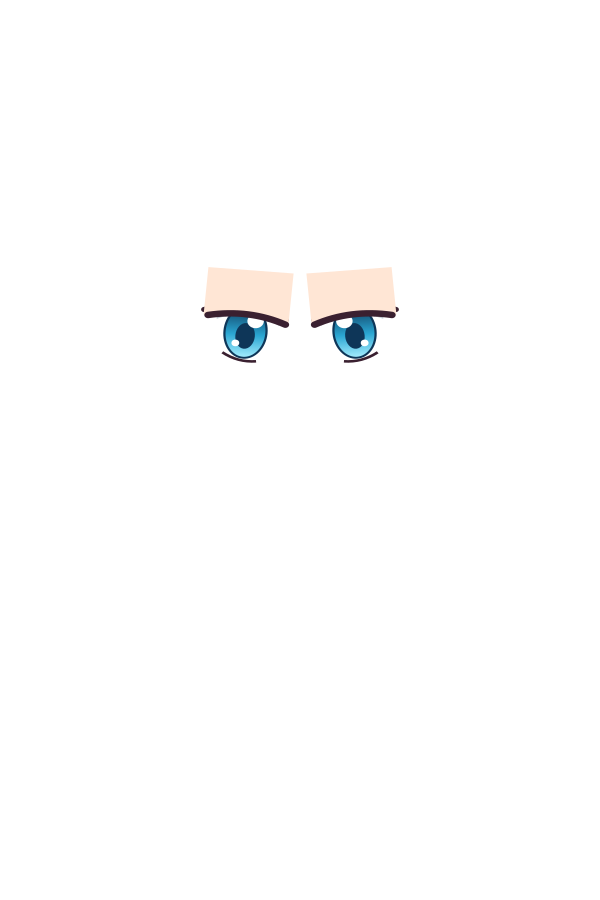
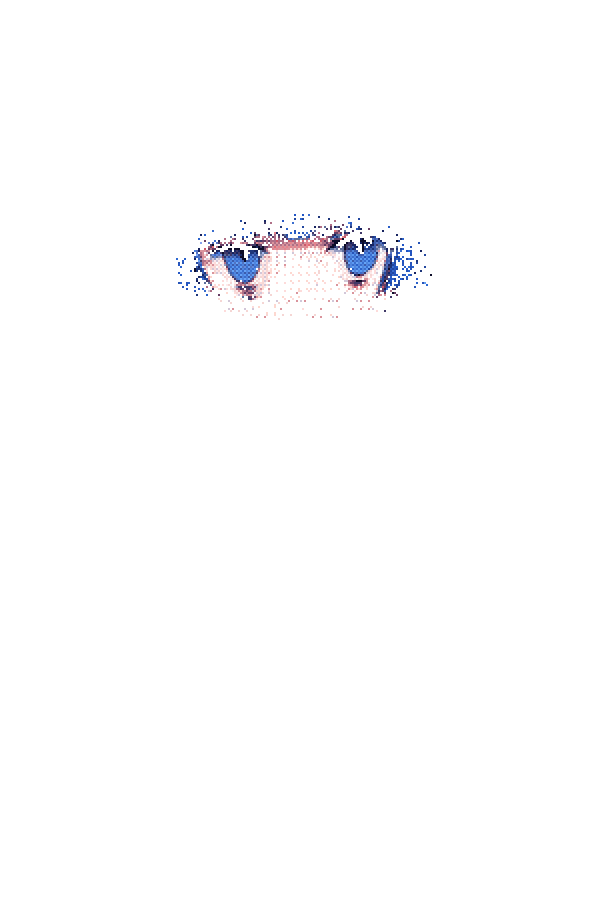
feat(art): 冬華のパーツ差分と、ミサキ・冬華の後ろ姿を ComfyUI で作成
- tools/misaki_parts.py: --char touka（キャラ別の部位座標・プロンプト・基準画像）。美咲の出力は変更なし
- images/chars/touka/: 19 レイヤーを新画風に差し替え（ファイル名・宣言は変更なし）
- tools/char_back.py: 後ろ姿（OP CUT 10/12）の生成・ラスター化。misaki_back / touka_back を差し替え
- tools/op_assets.py: 冬華の OP 表情を新パーツから合成。旧 SVG の後ろ姿生成は廃止
- docs/demo-design.md §14.8、image-generation.md を更新

Changed region(s): [[0.3, 0.2489, 0.69, 0.4044]]

diff --git a/tools/misaki_parts.py b/tools/misaki_parts.py
@@ -54,6 +54,70 @@ REGIONS = {  # 楕円 (l, t, r, b), feather
 LASH_ZONES = [(190, 465, 268, 605), (262, 478, 335, 516), (450, 435, 645, 492), (592, 435, 650, 575)]
 CHEEKS = [(205, 590, 290, 640), (560, 575, 645, 625)]  # 頬染めの楕円
 
+# ── キャラ別設定（--char で切り替え。既定は misaki）────────────────────
+# 冬華は参考画像がないので、txt2img + 弱い IP-Adapter（美咲の画風・制服）で作った基準バストから始める。
+TOUKA_STYLE = ("retro artstyle, 1990s (style), official art, game cg, cel shading, soft shading, "
+               "thin dark lineart, delicate lineart, soft colors")
+TOUKA_CHAR = ("1girl, solo, (very long hair:1.3), straight hair, (blue hair:1.5), (royal blue hair:1.3), "
+              "(indigo blue hair:1.1), hime cut, blunt bangs, sidelocks, white hairband, (blue eyes:1.2), "
+              "large eyes, calm, serious, cool, tsurime, serafuku, white shirt, short sleeves, "
+              "(navy blue sailor collar:1.3), white stripes, red bowtie")
+TOUKA_FRAME = ("upper body, portrait, straight-on, front-facing, looking at viewer, symmetrical, "
+               "white background, simple background")
+TOUKA_NEG = ("lowres, bad anatomy, bad hands, text, error, cropped, worst quality, low quality, jpeg artifacts, "
+             "signature, watermark, blurry, 3d, photorealistic, chromatic aberration, glasses, eyewear, "
+             "black hair, dark hair, cyan hair, light blue hair, purple hair, lavender hair, violet hair, "
+             "pink hair, blonde hair, short hair, twintails, ponytail, high contrast, heavy shadow, thick outlines, "
+             "light blue collar, multiple girls, speech bubble, nsfw, sparkle eyes, star pupils")
+
+CONFIGS = {
+    "misaki": {},
+    "touka": dict(
+        work="parts_touka", game="touka",
+        base_src="output/touka/base.png",          # 基準バスト（tools/misaki_parts の docs 参照）
+        lens=None, pale_fringe=False,
+        positive=lambda tags: ", ".join([G.QUALITY, TOUKA_STYLE, TOUKA_CHAR, TOUKA_FRAME, tags]),
+        negative=TOUKA_NEG, cheek_rgb=(236, 120, 140),
+        regions={"brows": ((310, 262, 592, 312), 6), "eyes": ((305, 298, 600, 398), 10),
+                 "mouth": ((408, 412, 502, 472), 8)},
+        cheeks=[(325, 385, 400, 418), (505, 385, 580, 415)],
+        lash_zones=[], sheet_crop=(60, 100, 540, 460),
+        # 冬華は前髪が眉に被るので、眉は弱め・目の pout は上まぶたを落とし過ぎない（帯状の破綻を防ぐ）
+        tags={("eyes", "pout"): "(jitome:1.2), (glaring:1.2), annoyed, sharp eyes",
+              ("brows", "up"): "(raised eyebrows:1.2), surprised"},
+        denoise={("brows", "up"): 0.75, ("eyes", "pout"): 0.75},
+    ),
+}
+CHAR_NAME = "misaki"
+POSITIVE = None      # tags → Positive 全文（None なら comfy_gen の美咲用ブロック）
+NEGATIVE = None
+BASE_SRC = None      # 設定時はこの画像を基準として使い、ComfyUI で基準を作らない
+PALE_FRINGE = True   # 参考シートの印刷オフセット（薄青いフチ）を白扱いにする（美咲のみ）
+CHEEK_RGB = (236, 110, 130)
+SHEET_CROP = (60, 260, 540, 620)   # 確認シートで切り出す顔まわり（600x900 キャンバス上）
+
+
+def use(char):
+    """キャラ設定をモジュール定数へ反映する。"""
+    global WORK, GAME_DIR, CHAR_NAME, POSITIVE, NEGATIVE, BASE_SRC, PALE_FRINGE, CHEEK_RGB
+    global LENS_L, LENS_R, REGIONS, CHEEKS, LASH_ZONES, SHEET_CROP
+    c = CONFIGS[char]
+    CHAR_NAME = char
+    if not c:
+        return
+    WORK = os.path.join(ROOT, "output", c["work"])
+    GAME_DIR = os.path.join(ROOT, "hoshimizaka", "game", "images", "chars", c["game"])
+    BASE_SRC = os.path.join(ROOT, c["base_src"])
+    POSITIVE, NEGATIVE, PALE_FRINGE, CHEEK_RGB = c["positive"], c["negative"], c["pale_fringe"], c["cheek_rgb"]
+    if c["lens"] is None:
+        LENS_L = LENS_R = None
+    REGIONS, CHEEKS, LASH_ZONES, SHEET_CROP = c["regions"], c["cheeks"], c["lash_zones"], c["sheet_crop"]
+    for (part, kind), t in c.get("tags", {}).items():
+        TAGS[part][kind] = t
+    for (part, kind), d in c.get("denoise", {}).items():
+        DENOISE_KIND[(part, kind)] = d
+
+
 # 各差分の inpaint 用タグ（表情タグのみ。キャラ・画風は comfy_gen と共通）
 TAGS = {
     "eyes": {
@@ -82,6 +146,7 @@ TAGS = {
 # 部位別に Negative へ足すタグ（片目だけ閉じるウインクを防ぐ）
 NEG_EXTRA = {"eyes": "(wink:1.4), (one eye closed:1.4)"}
 DENOISE = {"eyes": 0.85, "mouth": 0.85, "brows": 0.9}
+DENOISE_KIND = {}   # (部位, 種類) ごとの上書き
 KINDS = {"eyes": EYE_KINDS, "mouth": MOUTH_KINDS, "brows": BROW_KINDS}
 
 # 表情プリセット（hoshimizaka/game/characters.rpy の _BASE と同じ）。確認シート用
@@ -102,6 +167,8 @@ def ellipse_mask(box, feather):
 
 def glasses_mask(base):
     """基準画像から眼鏡フレームの画素を抜き出す（レンズ楕円の輪帯 + ブリッジ内の暗い画素）。"""
+    if LENS_L is None:  # 眼鏡なし（冬華）
+        return Image.new("L", WH, 0)
     band = Image.new("L", WH, 0)
     d = ImageDraw.Draw(band)
     for cx, cy, rx, ry in (LENS_L, LENS_R):
@@ -139,28 +206,33 @@ def _args(**kw):
     return a
 
 
-def gen(only=None):
+def gen(only=None, kinds=None):
     os.makedirs(WORK, exist_ok=True)
     base_path = os.path.join(WORK, "expr", f"base_s{SEED}.png")
-    if not (only and os.path.exists(base_path)):
-        G.run(_args(preset="expr", denoise=0.0, name="base", seed=SEED, out="output/parts"))
+    if BASE_SRC:
+        os.makedirs(os.path.dirname(base_path), exist_ok=True)
+        Image.open(BASE_SRC).convert("RGB").save(base_path)
+    elif not (only and os.path.exists(base_path)):
+        G.run(_args(preset="expr", denoise=0.0, name="base", seed=SEED, out=os.path.relpath(WORK, ROOT)))
     base = Image.open(base_path)
     inp = os.path.join(G.COMFY, "input")
-    base.save(os.path.join(inp, "ms_parts_base.png"))
+    base.save(os.path.join(inp, f"ms_{CHAR_NAME}_parts_base.png"))
     for part, m in masks(base).items():
-        m.save(os.path.join(inp, f"ms_parts_mask_{part}.png"))
+        m.save(os.path.join(inp, f"ms_{CHAR_NAME}_mask_{part}.png"))
         m.save(os.path.join(WORK, f"mask_{part}.png"))
     for part, table in TAGS.items():
         if only and part not in only:
             continue
         for kind, tags in table.items():
-            if tags is None:
+            if tags is None or (kinds and f"{part}_{kind}" not in kinds):
                 continue
             # 基準画像を初期画像に、清書パスなしで該当部位だけ inpaint
-            G.run(_args(preset="expr", init="ms_parts_base.png", mask=f"ms_parts_mask_{part}.png",
-                        refine=0.0, denoise=DENOISE[part], tags=tags, name=f"{part}_{kind}",
-                        negative=G.NEG + (", " + NEG_EXTRA[part] if part in NEG_EXTRA else ""),
-                        seed=SEED, out="output/parts"))
+            extra = ", " + NEG_EXTRA[part] if part in NEG_EXTRA else ""
+            kw = dict(positive=POSITIVE(tags), ip_weight=0.0) if POSITIVE else {}
+            G.run(_args(preset="expr", init=f"ms_{CHAR_NAME}_parts_base.png", mask=f"ms_{CHAR_NAME}_mask_{part}.png",
+                        refine=0.0, denoise=DENOISE_KIND.get((part, kind), DENOISE[part]), tags=tags, name=f"{part}_{kind}",
+                        negative=(NEGATIVE or G.NEG) + extra,
+                        seed=SEED, out=os.path.relpath(WORK, ROOT), **kw))
 
 
 # ── レイヤー化 ────────────────────────────────────────────────
@@ -176,8 +248,9 @@ class Raster:
         rgb = np.asarray(base.convert("RGB")).copy()
         ci = rgb.astype(int)
         mx, mn = ci.max(axis=2), ci.min(axis=2)
-        pale = (mn >= 150) & (ci[..., 2] >= ci[..., 0] + 12) & (mx - mn < 100)
-        rgb[pale] = 255
+        if PALE_FRINGE:
+            pale = (mn >= 150) & (ci[..., 2] >= ci[..., 0] + 12) & (mx - mn < 100)
+            rgb[pale] = 255
         self.alpha_full = PP.remove_white_bg(Image.fromarray(rgb), side_limit=0.62,
                                              bottom=False).getchannel("A")
         self.bbox = self.alpha_full.getbbox()
@@ -217,7 +290,7 @@ def blush_layer(R):
     over = Image.new("RGBA", WH, (0, 0, 0, 0))
     d = ImageDraw.Draw(over)
     for l, t, r, b in CHEEKS:
-        d.ellipse((l, t, r, b), fill=(236, 110, 130, 110))
+        d.ellipse((l, t, r, b), fill=(*CHEEK_RGB, 110))
     over = over.filter(ImageFilter.GaussianBlur(6))
     d = ImageDraw.Draw(over)
     for l, t, r, b in CHEEKS:
@@ -281,7 +354,7 @@ def sheet(dest=GAME_DIR):
     for name, (e, m, b, bl) in PRESETS.items():
         im = compose(dest, e, m, b, bl)
         bbox = im.getbbox()
-        crop = im.crop((60, 260, 540, 620))  # 顔まわり
+        crop = im.crop(SHEET_CROP)  # 顔まわり
         bg = Image.new("RGBA", crop.size, (180, 200, 220, 255))
         bg.alpha_composite(crop)
         d = ImageDraw.Draw(bg)
@@ -301,12 +374,16 @@ def sheet(dest=GAME_DIR):
 def main():
     p = argparse.ArgumentParser(description=__doc__, formatter_class=argparse.RawDescriptionHelpFormatter)
     p.add_argument("cmd", choices=["gen", "build", "sheet", "masks"])
-    p.add_argument("--dest", default=GAME_DIR)
+    p.add_argument("--char", choices=list(CONFIGS), default="misaki")
+    p.add_argument("--dest", default=None, help="既定: そのキャラの images/chars/<char>/")
     p.add_argument("--colors", type=int, default=64)
     p.add_argument("--only", default=None, help="gen: 生成する部位（例: brows,eyes）")
+    p.add_argument("--kinds", default=None, help="gen: 生成する差分（例: eyes_pout,brows_up）")
     a = p.parse_args()
+    use(a.char)
+    a.dest = a.dest or GAME_DIR
     if a.cmd == "gen":
-        gen(a.only.split(",") if a.only else None)
+        gen(a.only.split(",") if a.only else None, a.kinds.split(",") if a.kinds else None)
     elif a.cmd == "masks":  # マスク位置の確認用
         base = Image.open(_gen_path("base")).convert("RGB")
         over = base.copy()

diff --git a/tools/char_back.py b/tools/char_back.py
@@ -1,0 +1,91 @@
+"""ミサキ・冬華の後ろ姿（OP CUT 10 / 12 用）を ComfyUI で生成し、OP 用の 300x450 透過 PNG にする。
+
+  export COMFY_DIR=/path/to/ComfyUI
+  $COMFY_DIR/venv/bin/python -m tools.char_back gen misaki --seed 1   # → output/back/<char>/..._s<seed>.png
+  $COMFY_DIR/venv/bin/python -m tools.char_back install misaki         # 採用 seed でラスター化・配置
+
+後ろ姿は参考画像・IP-Adapter が使えない（顔が写る）ので、プロンプトだけで作る。髪色・制服は前面立ち絵と合わせる。
+出力: hoshimizaka/game/images/op/chars/<char>_back.png（300x450・48 色・ordered dither・アルファ 2 値）
+"""
+import argparse
+import os
+
+import numpy as np
+from PIL import Image
+
+from tools import comfy_gen as G
+from tools import misaki_postprocess as PP
+
+ROOT = G.ROOT
+OUT = os.path.join(ROOT, "hoshimizaka", "game", "images", "op", "chars")
+STYLE = ("retro artstyle, 1990s (style), official art, game cg, cel shading, soft shading, "
+         "thin dark lineart, delicate lineart, soft colors")
+FRAME = ("(from behind:1.5), (back view:1.4), (facing away:1.4), (back of head:1.3), upper body, "
+         "standing, straight-on from behind, white background, simple background")
+UNIFORM = ("serafuku, (white short-sleeved shirt:1.4), (navy blue sailor collar from the back:1.3), "
+           "white stripes on the collar, red ribbon")
+CHARS = {
+    "misaki": dict(
+        p="1girl, solo, (pink hair:1.2), (rose pink hair:1.3), (deep pink hair:1.1), short hair, bob cut, layered hair strands, hair highlights, " + UNIFORM,
+        seed=2, pale_bg=True),
+    "touka": dict(
+        p="1girl, solo, (very long hair:1.4), straight hair, (blue hair:1.5), (royal blue hair:1.5), (medium blue hair:1.2), "
+          "white hairband, hair covering the back, " + UNIFORM,
+        seed=1),
+}
+NEG = ("lowres, bad anatomy, text, error, cropped, worst quality, low quality, jpeg artifacts, signature, "
+       "watermark, blurry, 3d, photorealistic, chromatic aberration, glasses, eyewear, face, looking back, "
+       "looking at viewer, front view, profile, from side, multiple girls, speech bubble, nsfw, "
+       "high contrast, heavy shadow, thick outlines")
+NEG_BY = {"misaki": ", blue hair, long hair, twintails, ponytail, purple hair, pastel pink, light pink hair, "
+                    "green shirt, beige shirt, pink shirt, colored background",
+          "touka": ", pink hair, purple hair, short hair, black hair, twintails, ponytail, cyan hair, "
+                   "light blue hair, pastel, green shirt, beige shirt, colored background"}
+
+
+def gen(char, seed=None):
+    c = CHARS[char]
+    seed = seed or c["seed"]
+    pos = ", ".join([G.QUALITY, STYLE, c["p"], FRAME])
+    return G.run(G.make_args(preset="bg", positive=pos, negative=NEG + NEG_BY[char], width=896, height=1152,
+                             cn_weight=0, ip_weight=0, cfg=6.0, name=f"{char}_back", seed=seed,
+                             out="output/back"))
+
+
+def install(char, seed=None, colors=48):
+    seed = seed or CHARS[char]["seed"]
+    src = os.path.join(ROOT, "output", "back", "bg", f"{char}_back_s{seed}.png")
+    im = Image.open(src).convert("RGB")
+    if CHARS[char].get("pale_bg"):  # 背景に淡い青のグラデーションが乗る場合（髪が青系でないキャラのみ）
+        a = np.asarray(im).copy()
+        c = a.astype(int)
+        pale = (c.min(axis=2) >= 150) & (c[..., 2] >= c[..., 0] + 8) & (c.max(axis=2) - c.min(axis=2) < 100)
+        a[pale] = 255
+        im = Image.fromarray(a)
+    im = PP.remove_white_bg(im, side_limit=0.62, bottom=False)
+    bb = im.getbbox()
+    im = im.crop(bb)
+    s = 450 / im.height          # 高さ 450 に揃え、幅が 300 を超える分は中央で切る
+    im = im.resize((round(im.width * s), 450), Image.LANCZOS)
+    canvas = Image.new("RGBA", (300, 450), (0, 0, 0, 0))
+    canvas.alpha_composite(im, ((300 - im.width) // 2, 0))
+    a = canvas.getchannel("A")
+    rgb = PP._quantize(canvas.convert("RGB"), colors, "ordered")
+    out = rgb.convert("RGBA")
+    out.putalpha(a.point(lambda v: 255 if v >= 128 else 0))
+    path = os.path.join(OUT, f"{char}_back.png")
+    out.save(path, optimize=True)
+    print("wrote", path)
+
+
+def main():
+    p = argparse.ArgumentParser(description=__doc__, formatter_class=argparse.RawDescriptionHelpFormatter)
+    p.add_argument("cmd", choices=["gen", "install"])
+    p.add_argument("char", choices=list(CHARS))
+    p.add_argument("--seed", type=int, default=None)
+    a = p.parse_args()
+    gen(a.char, a.seed) if a.cmd == "gen" else install(a.char, a.seed)
+
+
+if __name__ == "__main__":
+    main()

diff --git a/tools/op_assets.py b/tools/op_assets.py
@@ -8,7 +8,6 @@
 import io
 import os
 
-import cairosvg
 import numpy as np
 from PIL import Image
 
@@ -21,6 +20,7 @@ BUSTS = os.path.join(ROOT, "hoshimizaka", "game", "images", "chars", "misaki")
 
 
 def render(svg, w, h):
+    import cairosvg  # SVG を描くときだけ必要（ComfyUI の venv には無い）
     png = cairosvg.svg2png(bytestring=svg.encode(), output_width=w, output_height=h)
     return Image.open(io.BytesIO(png)).convert("RGBA")
 
@@ -57,22 +57,24 @@ def misaki():
 
 
 def touka():
+    """冬華（OP 用表情）。ComfyUI 生成のパーツ差分（tools/misaki_parts.py --char touka）を合成して減色する。"""
+    from tools import misaki_parts as P
+    src = os.path.join(ROOT, "hoshimizaka", "game", "images", "chars", "touka")
     poses = {
-        "cool": dict(eyes="open", mouth="cool", brows="cool"),
-        "smile": dict(eyes="open", mouth="smile", brows="normal"),
-        "surprise": dict(eyes="surprise", mouth="surprise", brows="up"),
-        "blush": dict(eyes="open", mouth="smile", brows="normal", blush=True),
+        "cool": ("open", "cool", "cool", False),
+        "smile": ("open", "smile", "normal", False),
+        "surprise": ("surprise", "surprise", "up", False),
+        "blush": ("open", "smile", "normal", True),
     }
-    for name, kw in poses.items():
-        big = render(C.flat("touka", **kw), 600, 900)
+    for name, (e, m, b, bl) in poses.items():
+        big = P.compose(src, e, m, b, bl)
         save(reduce_colors(big.resize((300, 450), Image.LANCZOS), 40, True), f"chars/touka_{name}.png")
         save(reduce_colors(big, 56, True), f"chars/touka_{name}_hi.png")
 
 
 def backs():
-    for cid in ("misaki", "touka"):
-        big = render(C.back_svg(cid), 600, 900)
-        save(reduce_colors(big.resize((300, 450), Image.LANCZOS), 32, True), f"chars/{cid}_back.png")
+    """後ろ姿は ComfyUI 生成（tools/char_back.py）に移行した。旧 SVG 版は使わない。"""
+    raise SystemExit("後ろ姿は python -m tools.char_back install misaki|touka で作る")
 
 
 def glow():
@@ -90,7 +92,8 @@ if __name__ == "__main__":
     # OP 背景（bg_op_*.png）は ComfyUI 生成（tools/bg_gen.py）に移行したので、ここでは作り直さない。
     # 旧ベクター調に戻したいときだけ backgrounds() を明示的に呼ぶこと。
 
+    # misaki(): 美咲の OP 表情は chars/misaki/bust_*.png から。touka(): 新パーツから。
+    # 後ろ姿は tools/char_back.py。ここでは glow だけ再生成しても害がない
     misaki()
     touka()
-    backs()
     glow()

diff --git a/docs/image-generation.md b/docs/image-generation.md
@@ -75,6 +75,13 @@ python -m tools.gen_rpy             # images.rpy を再生成
 - 眼鏡: 目のマスクから眼鏡フレームを除外して基準の線を残し、さらに `base_front` として上に重ねる。
 - 既知の課題: 怒り眉は前髪に隠れて弱い。頬染めは控えめ。参考パネル自体が左端で髪を切っているため、髪の左端が直線になる。
 
+### 冬華・後ろ姿
+
+- **冬華の基準バスト**は参考画像がないため、txt2img（896×1152、cfg 6.0）+ IP-Adapter 重み 0.3（美咲の基準バストを参照。0.45 以上だと髪が紫に寄る）で作り、seed 5 を採用した。髪色は `(blue hair:1.5), (royal blue hair:1.3)` と、Negative の紫・水色系で固定。前髪が眉に被るので眉・目のマスクは美咲より狭い。
+- `python -m tools.misaki_parts gen|build|sheet --char touka` で美咲と同じ手順でパーツを作る。`--kinds eyes_pout,brows_up` で一部の差分だけ作り直せる。
+- 後ろ姿は `python -m tools.char_back gen|install misaki|touka`（顔が写るので IP-Adapter は使えず、プロンプトのみ）。採用 seed はミサキ 2、冬華 1。
+- 既知の課題: 冬華の「怒り」眉は前髪に隠れて弱い。眼の「びっくり」は目の下に影が出る。後ろ姿の制服の白は透過時に淡くなる。
+
 ## 確定設定（seed 5 で検証）
 
 共通: steps 28 / cfg 6.0 / euler_ancestral / normal / clip skip 2 / IP-Adapter PLUS weight 0.6（linear, V only）

diff --git a/docs/demo-design.md b/docs/demo-design.md
@@ -601,3 +601,10 @@ layeredimage misaki:
 - `bg_op_meteor_shower` / `bg_op_railway_crossing` / `bg_op_telescope_sky` は引き続き作らない。
 - `tools.gen_images`（引数なし）と `tools.op_assets` は背景を作り直さない（旧素材で上書きしないため）。
 
+### 14.8 冬華のパーツ差分と、ミサキ・冬華の後ろ姿
+
+- **冬華**: 参考画像がないので、txt2img に弱い IP-Adapter（重み 0.3、美咲の基準バスト入力）を掛けて、美咲と同じ画風・制服の基準バストを作った（髪は青、前髪ぱっつん・白いヘアバンド・長髪、眼鏡なし）。そこから `tools/misaki_parts.py --char touka` で、美咲と同じ手順（§14.6）の 19 レイヤーを作った。`images/chars/touka/` のファイル名・種類・`images.rpy` の宣言・表情プリセットは変更なし。旧（手続き生成のベクター調）は git 履歴に残る。
+- **後ろ姿**（OP CUT 10 / 12）: `tools/char_back.py` で生成し、300×450・48 色・ordered dither の透過 PNG にした（`images/op/chars/{misaki,touka}_back.png`）。
+- **OP の冬華表情**: `tools/op_assets.py` の `touka()` が新パーツを合成して作る。旧 SVG からの後ろ姿生成（`backs()`）は廃止。
+- **楓**は旧画風のまま（別作業）。
+
